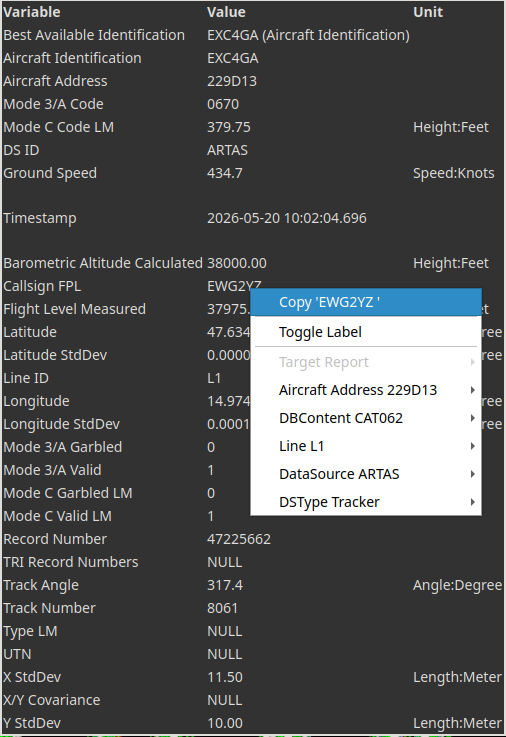
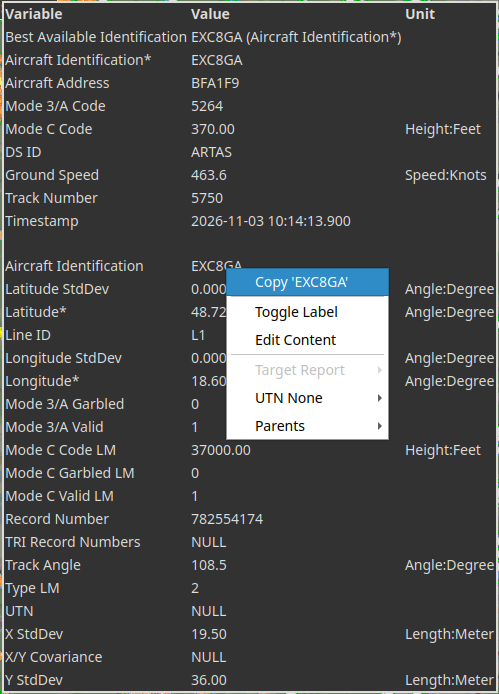
manual updates

Changed region(s): [[0.0, 0.0, 1.0, 1.0]]

diff --git a/doc/user_manual/geographicview/geo_data_widget.tex b/doc/user_manual/geographicview/geo_data_widget.tex
@@ -95,16 +95,10 @@ The following entries exist:
 \begin{itemize}
  \item Copy '\textit{text}': Copies the clicked label cell's text to the clipboard. Only shown when the click hits a non-header cell.
  \item Toggle Label: Hide the label.
- \item Target Report: Submenu with per-report actions. Enabled only for layers that support them:
-    \begin{itemize}
-     \item Show/Clear ARTAS Target Report Usage: ARTAS tracker layers
-     \item Show/Clear MLAT Contributing RUs: CAT020 MLAT layers
-    \end{itemize}
- \item Group: Same operations as on the item group's layer menu
- \item Parents: Same operations as on the item's parent layer menu (DBContent, Line, DataSource, DSType)
+ \item Reset Position: Returns a manually placed label to the automatic placement (see \nameref{sec:geoview_label_placement}). Only shown for manually placed labels.
+ \item Edit Content: Opens the label content dialog of the label's DBContent (see \nameref{sec:geoview_label_contents}).
+ \item Target Report, Item and Parents submenus: Same as in the Data Menu below.
 \end{itemize}
-
-Below the Copy and Target Report entries, the menu duplicates the actions of the Data Menu (see \nameref{sec:data_operations} for details).
 
 \subsubsection{Data Menu}
 
@@ -121,11 +115,26 @@ The data context menu allows the following operations:
 
 \begin{itemize}
  \item Toggle Label: Toggle label display of a single target report
- \item Group: Same operations as on the item group's layer menu
- \item Parents: Same operations as on the item's parent layer menu
+ \item Target Report: Submenu with actions for the clicked target report. Enabled only for layers that support them:
+    \begin{itemize}
+     \item Show/Clear ARTAS Target Report Usage: ARTAS tracker layers
+     \item Show/Clear MLAT Contributing RUs: CAT020 MLAT layers
+    \end{itemize}
+ \item Item (e.g. 'Aircraft Address 58B22D'): Submenu with actions for all target reports of the item the clicked target report belongs to. The item depends on the grouping selected in the 'Item Mode' combo box (see \nameref{sec:geo_item_mode}):
+    \begin{itemize}
+     \item Zoom to Data: Zooms the map to the item
+     \item Clear Labels: Removes all labels of the item
+     \item Select Data, Add Data to Selection, Remove Data from Selection: Changes the selection
+     \item Show/Clear ARTAS Target Report Usage: Only for items with ARTAS tracker data
+     \item Show/Clear Ground Lines: Only if 'Use height' is active
+     \item Show/Clear Ground Speed Vectors
+     \item Show/Clear Position Accuracy Ellipses
+     \item Show/Clear MLAT Contributing RUs: Only for items with CAT020 MLAT data
+    \end{itemize}
+ \item Parents: Submenu with one submenu per parent layer of the clicked target report: DBContent, Line, DataSource and DSType. Each contains the same entries as the layer menu in the 'Layers' tab (see \nameref{sec:data_operations})
 \end{itemize}
 
-Depending on the grouping mode in the 'Config' tab, different parent layer items are shown. For each of these parents the same menu entries exist as if they were clicked in the 'Layers' tab. Please refer to \nameref{sec:data_operations} for details.
+The Show/Clear entries are disabled while live mode is running.
 
 
 \subsubsection{Quick Menu}
@@ -284,9 +293,7 @@ The following items exist:
 \end{itemize}
 \ \\
 
-During usage of the time filter, most changes in the Configuration panel are not available (except for changes in the Layers tab and current style). \\
-
-Please \textbf{note} that the time filter is automatically deactivated if a re-load is triggered.
+During usage of the time filter, most changes in the Configuration panel are not available (except for changes in the Layers tab and current style).
 
 \subsubsection{Depth Check}
 

diff --git a/doc/user_manual/live/live.tex b/doc/user_manual/live/live.tex
@@ -159,7 +159,7 @@ To indicate if the displayed data is the currently most recent or from a previou
     \centering
     \hspace*{-2.5cm}
     \includegraphics[width=19cm,frame]{figures/geoview_offline_status.png}
-  \caption{Geographic View Overload Message}
+  \caption{Geographic View Online/Offline Display}
 \end{figure} 
 
 The online state text is shown if the application is in Live:Running mode and the most recent data is displayed. In all other states (other application mode or previous time window displayed) the offline state text is displayed. \\

diff --git a/doc/user_manual/scripting/rtcommands/rtcommands.tex b/doc/user_manual/scripting/rtcommands/rtcommands.tex
@@ -397,7 +397,7 @@ A rectangular position filter (given as minimum and maximum latitude and longitu
   "filter_position_rec_active": true,
   "filter_rec_latitude_min": 49.686,
   "filter_rec_latitude_max": 50.3898,
-  "filter_rec_longitude_min": 8.0115,
+  "filter_rec_longitude_min": 8.0115, 
   "filter_rec_longitude_max": 9.1129,
   "filter_modec_active": true,
   "filter_modec_max": 500,
